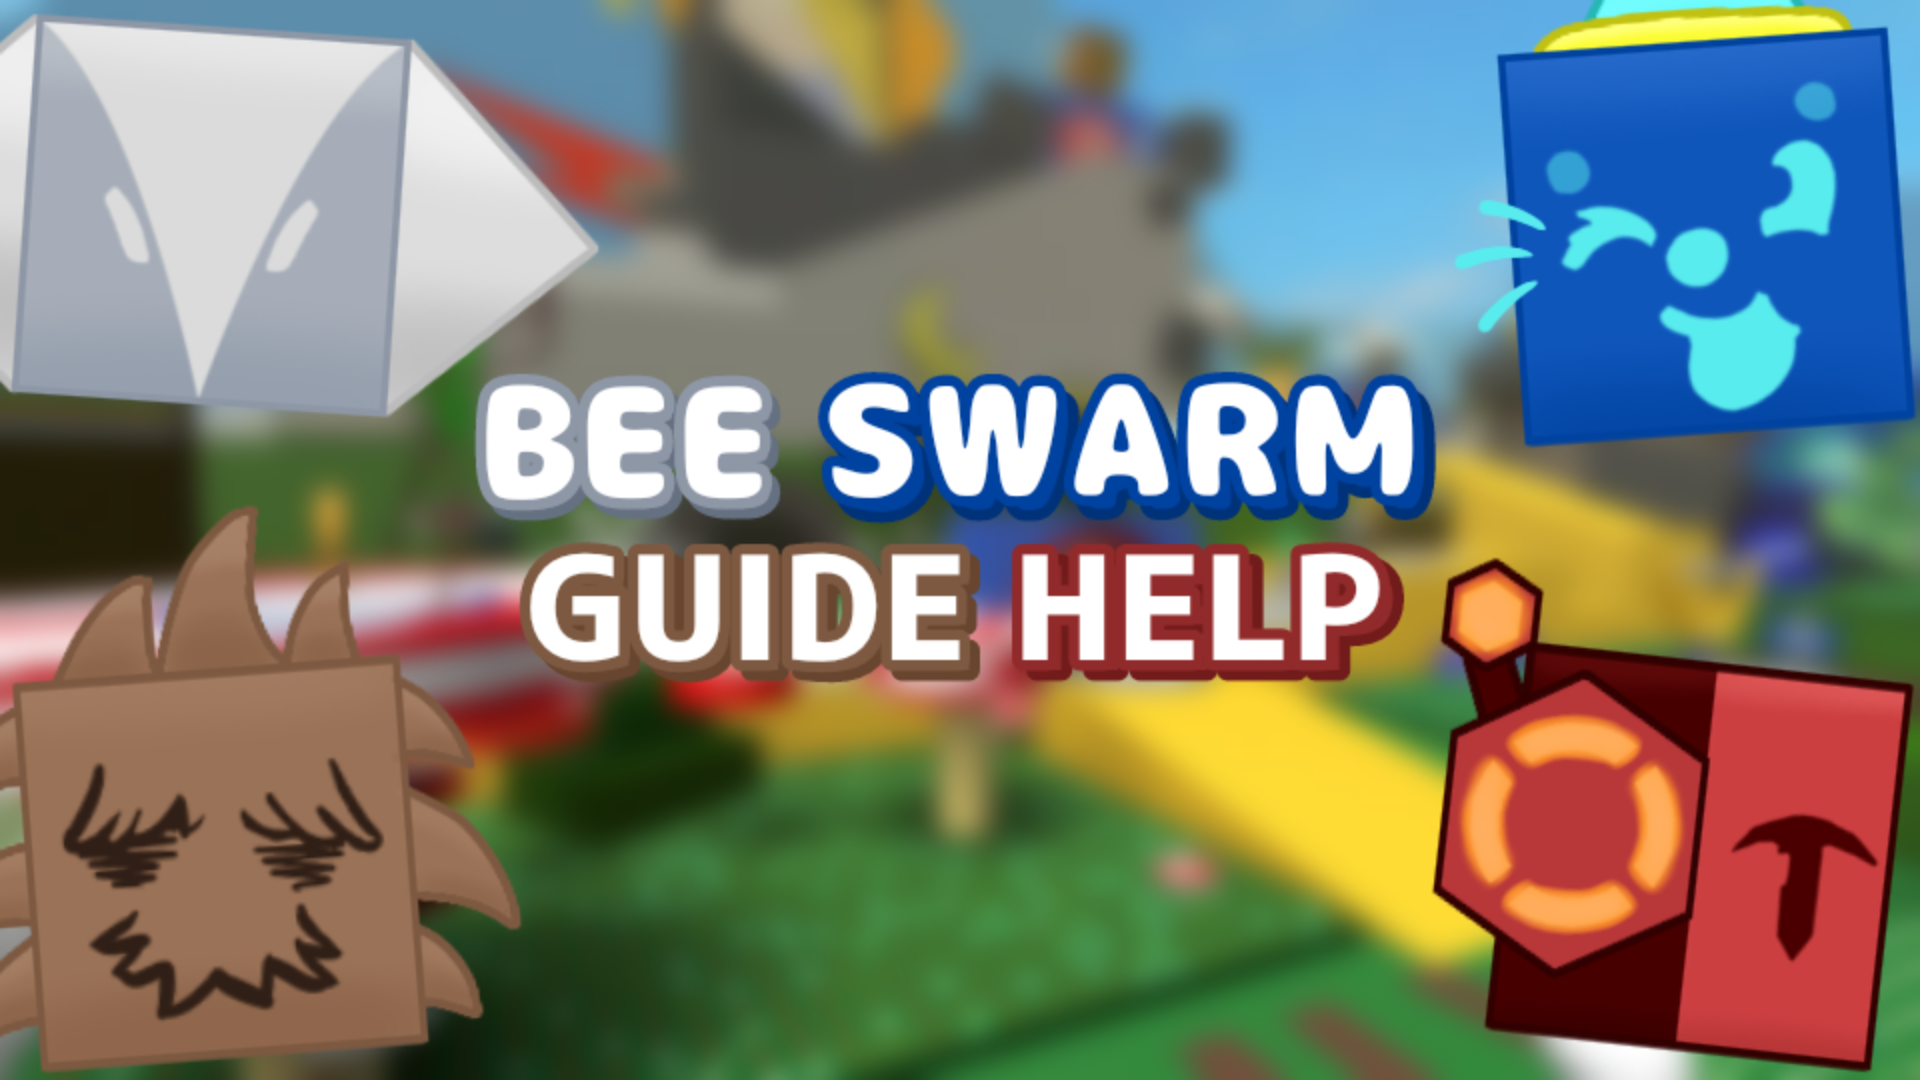
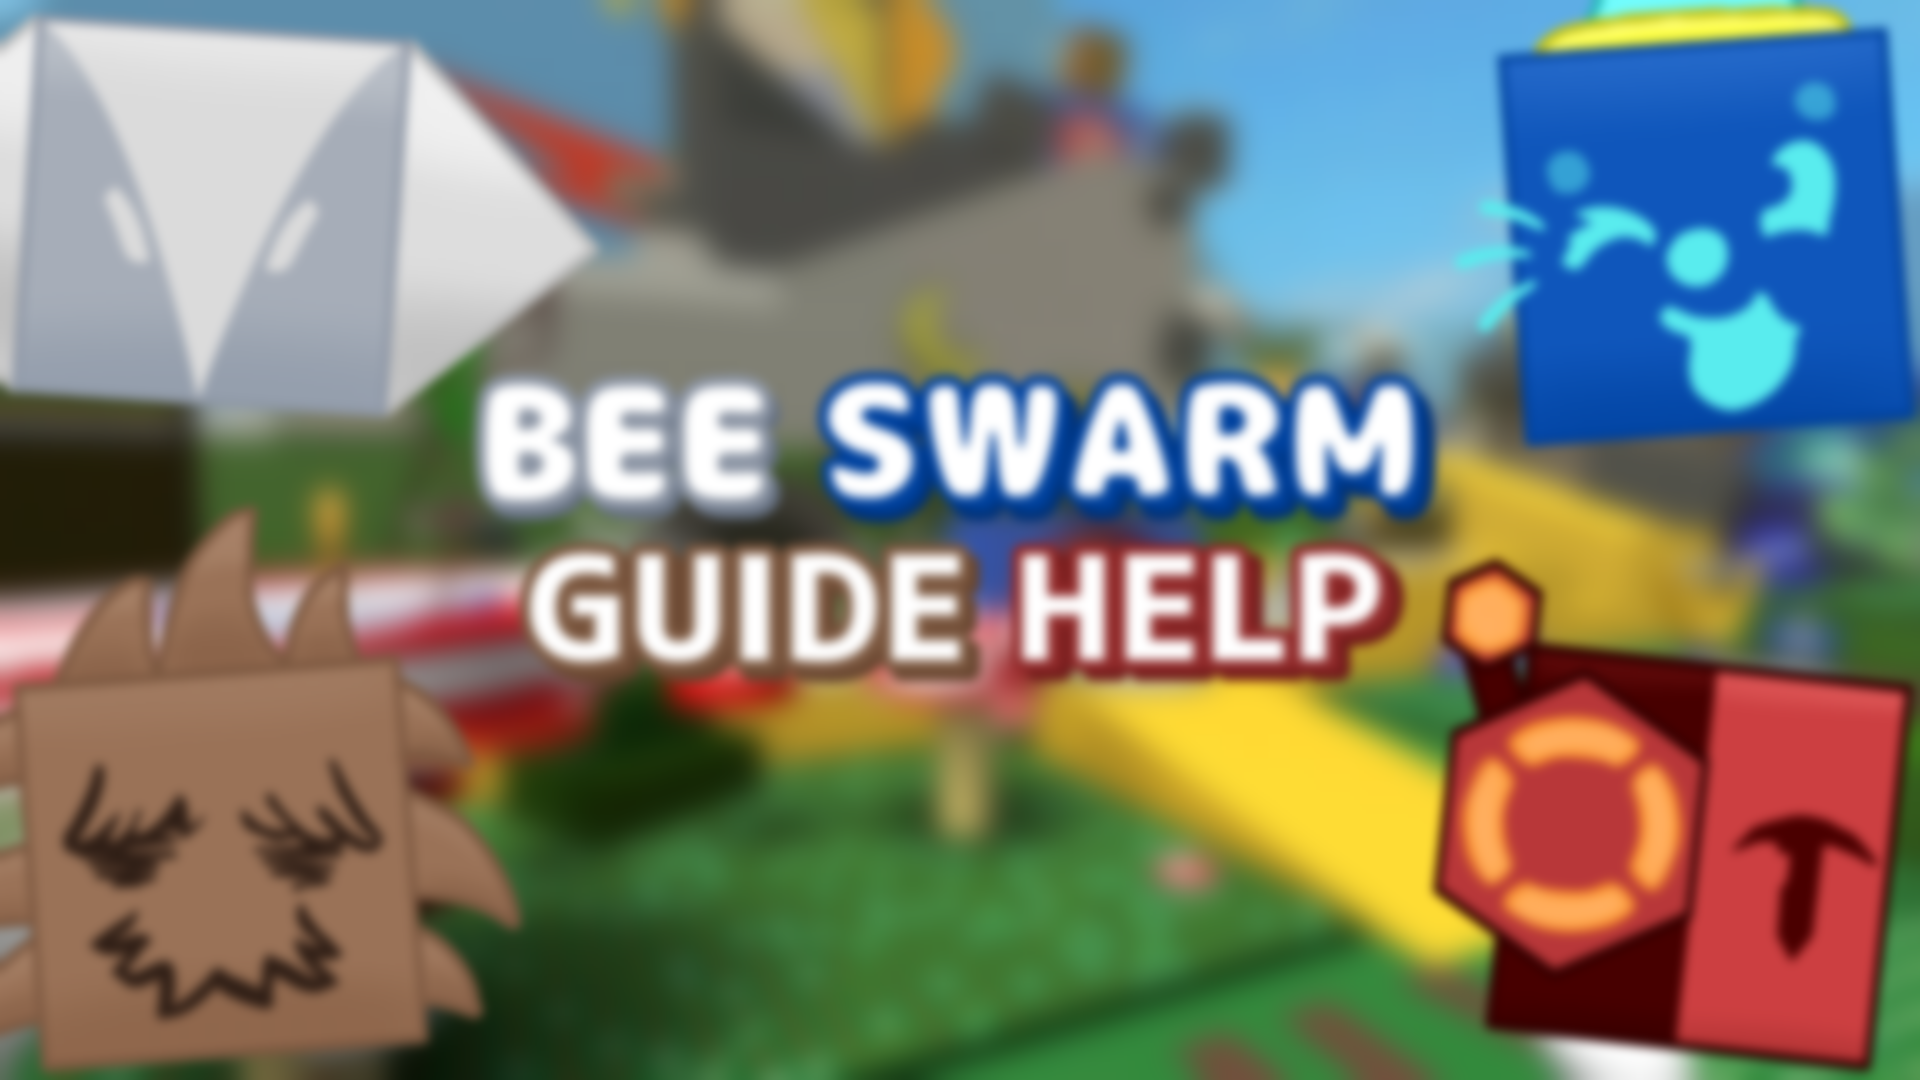
Cried a bit and deleted background

diff --git a/styles.css b/styles.css
@@ -1,33 +1,3 @@
-body,
-html {
-    height: 100%;
-}
-
-.bg-image {
+body {
     background-image: url("Images/background.png");
-
-    filter: blur(8px);
-    -webkit-filter: blur(3px);
-    height: 100%;
-
-    background-position: center;
-    background-repeat: no-repeat;
-    background-size: cover;
-}
-
-* {
-    box-sizing: border-box;
-    background-color: rgb(0, 0, 0); /* Fallback color */
-    background-color: rgba(0, 0, 0, 0.4); /* Black w/opacity/see-through */
-    color: white;
-    font-weight: bold;
-    border: 3px solid #f1f1f1;
-    position: absolute;
-    top: 50%;
-    left: 50%;
-    transform: translate(-50%, -50%);
-    z-index: 2;
-    width: 80%;
-    padding: 20px;
-    text-align: center;
 }

diff --git a/index.html b/index.html
@@ -6,11 +6,5 @@
         <link rel="stylesheet" type="text/css" href="styles.css" />
         <title>Bee Swarm Guide Help</title>
     </head>
-    <body>
-        <div class="bg-image">
-            <div>
-                <h1>Home</h1>
-            </div>
-        </div>
-    </body>
+    <body></body>
 </html>
